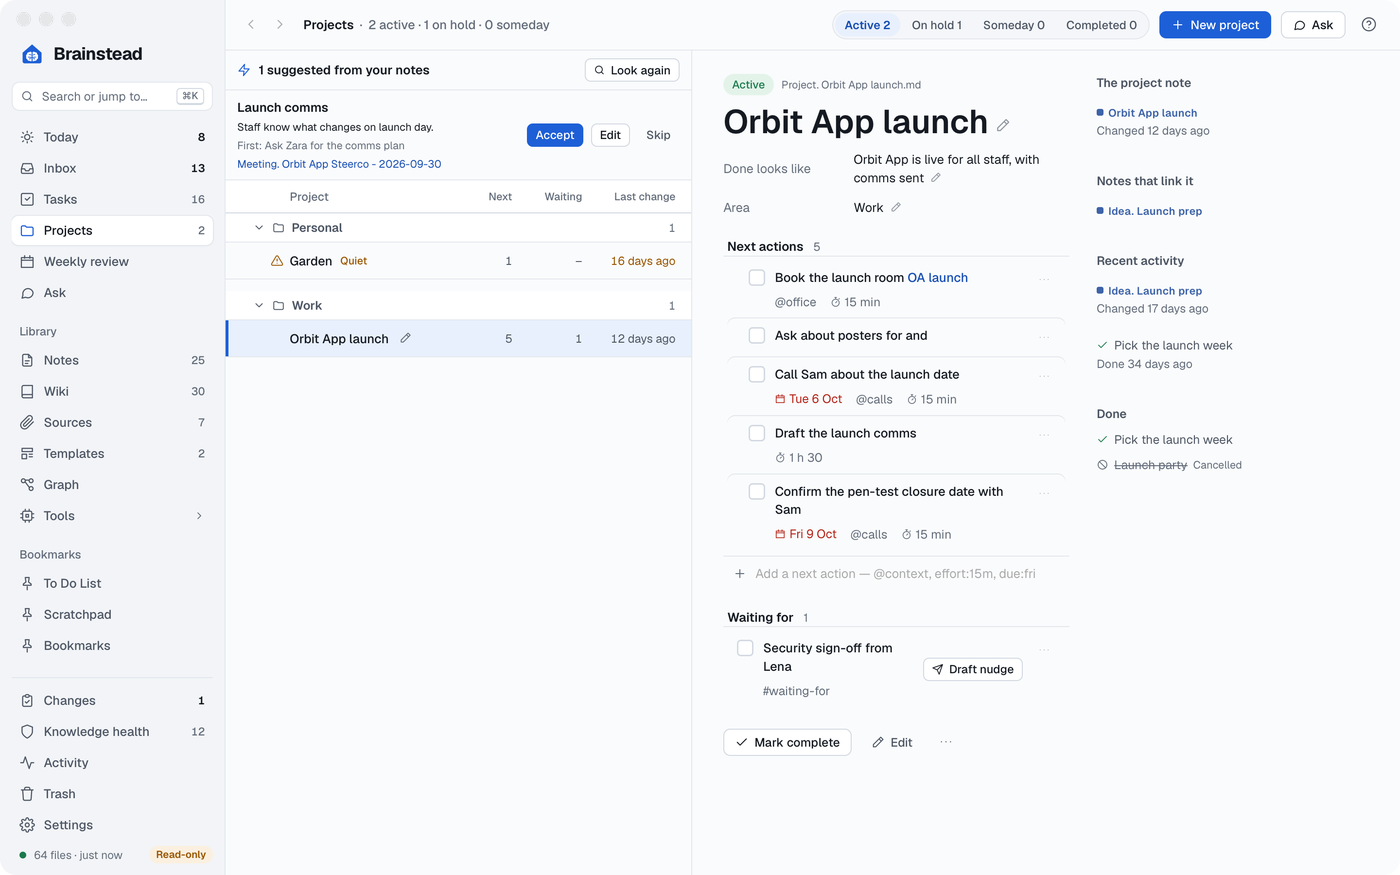
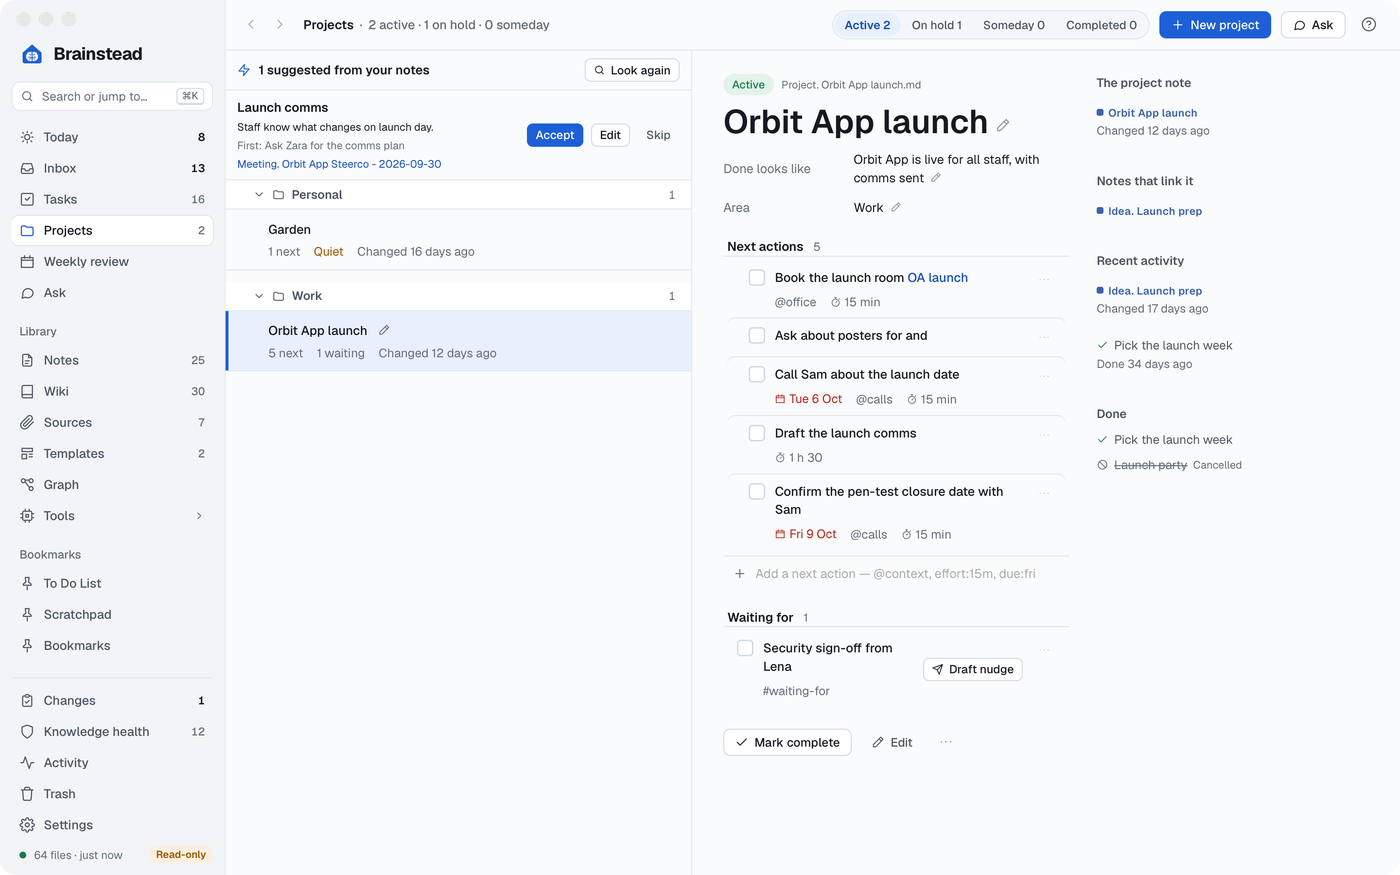
Projects list as Today's task rows: each project's name, then one grey line of its next actions, waiting-fors and last change, with No next action in red and Quiet in amber; no column headers. Help and screenshots

diff --git a/src/Projects.tsx b/src/Projects.tsx
@@ -187,12 +187,6 @@ export function ProjectsScreen() {
           )}
           {!!shown.length && (
             <div className="ptable" role="table" aria-label={`${STATUS_LABEL[tab]} projects`}>
-              <div className="prow tb-head" role="row">
-                <span role="columnheader">Project</span>
-                <span role="columnheader">Next</span>
-                <span role="columnheader">Waiting</span>
-                <span role="columnheader">Last change</span>
-              </div>
               {asDragged("areas", areas, ([a]) => a).map(([area, ps]) => (
                 <div
                   key={area}
@@ -229,36 +223,26 @@ export function ProjectsScreen() {
                             pick(p);
                           }}
                         >
+                          {/* As Today's task rows: the name, then its counts as one grey line. */}
+                          <span
+                            className="pgrip"
+                            title="Drag to put it in order"
+                            aria-hidden="true"
+                            onPointerDown={(e) =>
+                              startDrag(
+                                e,
+                                "projects",
+                                `projects:${area}`,
+                                p.path,
+                                ps.map((x) => x.path),
+                              )
+                            }
+                            onClick={(e) => e.stopPropagation()}
+                          >
+                            <Icon name="grip" size={12} />
+                          </span>
                           <span className="nm" role="cell">
-                            <span
-                              className="pgrip"
-                              title="Drag to put it in order"
-                              aria-hidden="true"
-                              onPointerDown={(e) =>
-                                startDrag(
-                                  e,
-                                  "projects",
-                                  `projects:${area}`,
-                                  p.path,
-                                  ps.map((x) => x.path),
-                                )
-                              }
-                              onClick={(e) => e.stopPropagation()}
-                            >
-                              <Icon name="grip" size={12} />
-                            </span>
-                            <span className="flag">
-                              {flag && <Icon name="alert" size={13} style={{ color: flag === "none" ? "var(--red)" : "var(--amber)" }} />}
-                            </span>
                             <span className="ell">{p.name}</span>
-                            {flag && (
-                              <span
-                                className={`pflag ${flag === "none" ? "red" : "amber"}`}
-                                title={flag === "none" ? "Stuck: it has no next action" : "Quiet: nothing has happened for two weeks"}
-                              >
-                                {flag === "none" ? "Stuck" : "Quiet"}
-                              </span>
-                            )}
                             <button
                               type="button"
                               className="ibtn sm pedit"
@@ -272,14 +256,21 @@ export function ProjectsScreen() {
                               <Icon name="pencil" size={13} />
                             </button>
                           </span>
-                          <span role="cell" className={`m ${p.status === "active" && !p.next ? "red" : ""}`}>
-                            {p.next || (p.status === "active" ? "None" : "–")}
-                          </span>
-                          <span role="cell" className="m">
-                            {p.waiting || "–"}
-                          </span>
-                          <span role="cell" className={`m ${flag === "quiet" ? "amber" : ""}`}>
-                            {ago(p.lastTouched)}
+                          <span className="pmeta" role="cell">
+                            {p.status === "active" && !p.next ? (
+                              <span className="red" title="Stuck: it has no next action">
+                                No next action
+                              </span>
+                            ) : (
+                              <span>{p.next ? `${p.next} next` : "Nothing next"}</span>
+                            )}
+                            {p.waiting > 0 && <span>{p.waiting} waiting</span>}
+                            {flag === "quiet" && (
+                              <span className="amber" title="Quiet: nothing has happened for two weeks">
+                                Quiet
+                              </span>
+                            )}
+                            <span>Changed {ago(p.lastTouched)}</span>
                           </span>
                         </div>
                       );

diff --git a/src/styles.css b/src/styles.css
@@ -6184,26 +6184,20 @@ select.sel {
 
 /* The list is a table (.tb-head, .tb-band, .tb-row): a band per area, a row per project. */
 .ptable {
-  --tb-head: 34px;
+  --tb-head: 0px;
 
   padding-bottom: 24px;
 }
+
+/* A project's row, as Today's task rows: its name, then its counts as one grey line. */
 .prow {
-  display: grid;
-  grid-template-columns: minmax(0, 1fr) 52px 60px 84px;
-  gap: 12px;
-  align-items: center;
+  display: flex;
+  flex-direction: column;
+  gap: 3px;
   width: 100%;
-  min-height: 38px;
-  padding: 0 16px 0 12px;
+  padding: 9px 16px 9px 12px;
   text-align: left;
   cursor: pointer;
-}
-.prow.tb-head {
-  min-height: 0;
-}
-.prow.tb-head span:first-child {
-  padding-left: 22px;
 }
 .prow .nm {
   display: flex;
@@ -6212,11 +6206,18 @@ select.sel {
   min-width: 0;
   font-weight: 500;
 }
-.prow .flag {
-  display: inline-flex;
-  flex: none;
-  justify-content: center;
-  width: 18px;
+.prow .pmeta {
+  display: flex;
+  flex-wrap: wrap;
+  gap: 2px 14px;
+  font-size: 12.5px;
+  color: var(--ink3);
+}
+.prow .pmeta .red {
+  color: var(--red);
+}
+.prow .pmeta .amber {
+  color: var(--amber);
 }
 
 /* An area's band folds its projects away; its pencil renames the area. */
@@ -6270,6 +6271,7 @@ select.sel {
 }
 .ptable .prow .pgrip {
   left: 28px;
+  top: 19px;
 }
 .pband:hover .pgrip,
 .prow:hover .pgrip {
@@ -6297,36 +6299,6 @@ select.sel {
 }
 .ptable .pedit:hover {
   color: var(--ink);
-}
-.prow .m,
-.prow.tb-head span + span {
-  font-size: 12px;
-  color: var(--ink2);
-  text-align: right;
-  font-variant-numeric: tabular-nums;
-}
-.prow.tb-head span + span {
-  color: var(--ink3);
-  font-size: 11px;
-}
-.prow .m.red {
-  color: var(--red);
-  font-weight: 500;
-}
-.prow .m.amber {
-  color: var(--amber);
-}
-.prow .pflag {
-  flex: none;
-  font-size: 11px;
-  font-weight: 500;
-  margin-left: 4px;
-}
-.prow .pflag.red {
-  color: var(--red);
-}
-.prow .pflag.amber {
-  color: var(--amber);
 }
 .pdone.cancelled .ell {
   text-decoration: line-through;

diff --git a/src/help/projects.md b/src/help/projects.md
@@ -8,13 +8,13 @@ summary: Every project note by status and area, with its next actions, waiting-f
 A project is a note named `Project. <name>.md`. Its properties hold its status, area and outcome. Its tasks are those written in it plus any task elsewhere that links it. In the daily and weekly summaries, area Personal goes under **Personal** and any other area under **Work done**, done projects included.
 
 ## Find a project
-**Active**, **On hold**, **Someday** and **Completed** in the top bar switch by status, each with its count. The table groups projects by area (no area last) and shows **Next** (open next actions), **Waiting**, and **Last change** (when the note or any of its tasks last changed). Click an area's name to fold its projects away or show them again; what's folded is remembered.
+**Active**, **On hold**, **Someday** and **Completed** in the top bar switch by status, each with its count. The list groups projects by area (no area last). Under each project's name, a grey line says how many next actions and waiting-fors it has and when the note or any of its tasks last changed. Click an area's name to fold its projects away or show them again; what's folded is remembered.
 
 To put areas or projects in your own order, point at a row and drag it by the grip on its left: an area among the areas, a project among its area's projects. **No area** stays last, and areas and projects you haven't moved come after the ones you have, A to Z. The order is kept in Brainstead's settings on this Mac, not in your notes.
 
 To rename an area, point at its band and click the pencil, type the new name and press `↩`. It changes the area on every project under it, whatever its status, undone together with **Undo** in the toast. The area keeps its place in your order, and undoing the rename puts the old name back where it was. A name already in use merges the two, where that area was.
 
-An active project is flagged **Stuck** (red) with no next action, and **Quiet** (amber) when nothing has changed for two weeks; an assistant sees the same flags. The sidebar counts active projects, in a blue badge when any has no next action.
+An active project that's stuck says **No next action** in red, and one that's quiet says **Quiet** in amber when nothing has changed for two weeks; an assistant sees the same flags. The sidebar counts active projects, in bold when any has no next action.
 
 ## Work on a project
 Click a project to open it. Edit its name, **Done looks like** (the outcome) and **Area** in place (each has a pencil): click, type and press `↩`. Renaming the project renames its note, as **Rename** in the file menu does: links to it follow, and **Undo** in the toast (or ⌘Z) puts the old name back. To change anything else in the note, click the pencil on the project's row, or **Edit** under its tasks: the project note opens in Edit.
